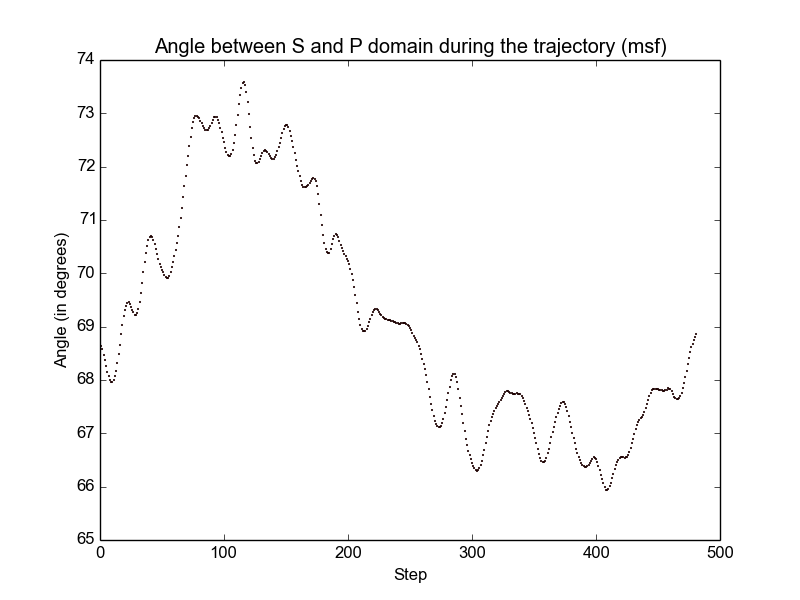
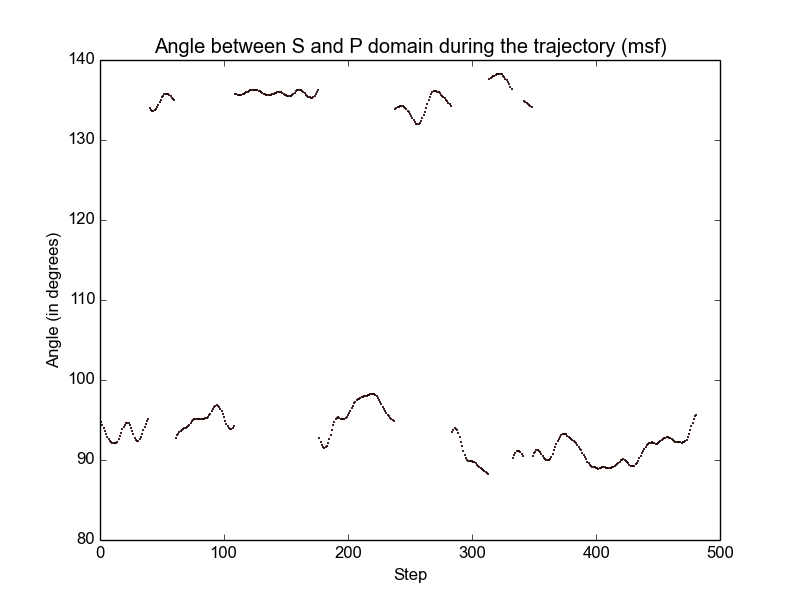
Corr err calc angles

diff --git a/bin/structures.py b/bin/structures.py
@@ -4,6 +4,7 @@ from GromacsTrajectory import XTCTrajectory
 import re
 import numpy as np
 import mathops as mo
+import copy as cp
 
 
 import scipy.linalg
@@ -125,6 +126,7 @@ class Md(object):
             dist_d1 = dist_d1.sum(axis=-1)
             dist_d1 = np.sqrt(dist_d1)
 
+
             dist_d2 = (self.mean_d2 - self.frame[f].domains[1].xyz)**2
             dist_d2 = dist_d2.sum(axis=-1)
             dist_d2 = np.sqrt(dist_d2)
@@ -136,8 +138,9 @@ class Md(object):
             d1 = np.add(d1,dist_d1)
             d2 = np.add(d2,dist_d2)
 
-        self.msf_d1 = mo.box(d1)
-        self.msf_d2 = mo.box(d2)
+        self.msf_d1 = cp.deepcopy(mo.box(d1))
+
+        self.msf_d2 = cp.deepcopy(mo.box(d2))
 
     def update_msf_domain(self):
         for f in xrange(len(self.frame)):
@@ -162,9 +165,13 @@ class Md(object):
 
             self.frame[i].domains[0].update_eig()
             self.frame[i].domains[1].update_eig()
+            '''
+            print self.frame[i].domains[0].eig.xyz_centered
+            print self.frame[i].domains[0].eig.inertia
+            print '---'
+            '''
 
             self.angles.append(self.frame[i].calc_angle(0,1))
-
 
 class Topology(object):
     def __init__(self):
@@ -240,9 +247,10 @@ class Frame(object):
         self.domains.append(Md.update_domain(domain, self.residues, self.iresidues, self.atoms, self.iatoms, self.xyz))
 
     def calc_angle(self, i, j):
-        vec = mo.orientation(self.domains[i].eig.first_eig, self.domains[j].eig.first_eig)
-        return mo.angular(vec, self.domains[j].eig.first_eig)
-
+        #vec = mo.orientation(self.domains[i].eig.first_eig, self.domains[j].eig.first_eig)
+        #return mo.angular(vec, self.domains[j].eig.first_eig)
+        #return mo.angular(self.domains[i].eig.first_eig, self.domains[j].eig.first_eig)
+        return mo.angular2(self.domains[i].eig.first_eig, self.domains[j].eig.first_eig)
 
 class Domain(object):
     def __init__(self):
@@ -261,10 +269,11 @@ class Domain(object):
 
     def update_eig(self):
 
-        self.eig.xyz_centered = mo.centroid(self.xyz)
+        self.eig.xyz_centered = mo.center(self.xyz)
         self.eig.inertia = mo.inertia(self.eig.xyz_centered)
         self.eig.eigenvalues = mo.eigen(self.eig.inertia)[0]
         self.eig.eigenvectors = mo.eigen(self.eig.inertia)[1]
+
         self.eig.first_eig = self.eig.eigenvectors[:,2].tolist()
 
     def plane(self):

diff --git a/bin/mathops.py b/bin/mathops.py
@@ -6,7 +6,7 @@ def norm(u):
     return np.sqrt(u[0]**2+u[1]**2+u[2]**2)
 
 
-def centroid(xyz):
+def center(xyz):
     return xyz - xyz.mean(axis=0)
 
 
@@ -18,15 +18,27 @@ def eigen(xyz):
     return np.linalg.eig(xyz)
 
 
-def orientation(u,v):
-    dot_product = sum(p*q for p,q in zip(u,v))
+def unit(v):
+    return v / np.linalg.norm(v)
+
+
+def angular2(v1,v2):
+    u = unit(v1)
+    v = unit(v2)
+    angle = np.degrees(np.arccos(np.clip(np.dot(u, v),-1,1)))
+    return angle
+
+def orientation(u, v):
+    #dot_product = sum(p*q for p, q in zip(u, v))
+    dot_product = np.dot(u, v)
+    print dot_product
     if dot_product < 0:
-        u  = [x*-1 for x in u]
+        u = [x*-1 for x in u]
     return u
 
 
 def angular(u,v):
-    angle = round(sum(p*q for p,q in zip(u,v)) / (norm(u) * norm(v)), 5)
+    angle = sum(p*q for p,q in zip(u,v)) / (norm(u) * norm(v))
     angle = np.degrees(np.arccos(angle))
     return angle
 
@@ -34,6 +46,10 @@ def angular(u,v):
 def box(dat):
 
     size = len(dat)
+    mtx = np.zeros(shape=(size,2))
+    mtx[:,0] = np.sort(dat)
+    mtx[:,1] = np.argsort(dat)
+
     if size % 2 == 0:
         q2_index = size/2
     else :
@@ -42,13 +58,11 @@ def box(dat):
     q1_index = round(q2_index - (size - q2_index)/2)
     q3_index = round(q2_index + (size - q2_index)/2)
 
-    if q3_index >= q1_index :
-        iqr = dat[q3_index] - dat[q1_index]
-    else :
-        iqr = dat[q1_index] - dat[q3_index]
+    iqr = mtx[q3_index,0] - mtx[q1_index,0]
 
-    threshold = dat[q3_index] + 1.5*iqr
+    threshold = mtx[q3_index,0] + 1.5*iqr
 
-    out = [i for i, x in enumerate(dat) if (dat[i] <= threshold)]
+    out = [int(mtx[i,1]) for i, x in enumerate(mtx) if (mtx[i,0] <= threshold)]
+    out = sorted(out)
 
     return out

diff --git a/bin/module.py b/bin/module.py
@@ -4,7 +4,6 @@ __copyright__ = 'copyleft'
 import structures
 import utils
 
-import numpy as np
 
 if __name__ == '__main__':
 
@@ -24,19 +23,24 @@ if __name__ == '__main__':
     # Get informations from the two domains
     t.get_domains(arg.firstdomain, arg.seconddomain)
 
+    # Compute graphs without MSF correction
     utils.graph_angles(t.angles, xrange(len(t.frame)), 'no_msf')
 
     # Get mean position for each atom
     t.get_mean_pos()
 
+    # Computes msf
     t.get_msf_index()
 
     t.update_msf_domain()
 
     t.update_angles()
 
+    # Compute graphs with MSF correction
     utils.graph_angles(t.angles, xrange(len(t.frame)), 'msf')
 
+    for i in t.angles:
+        print i
 
     '''
     for i in xrange(len(t.frame)):
